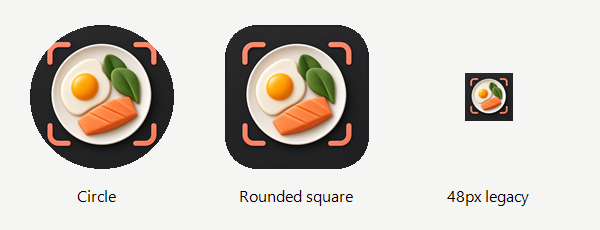
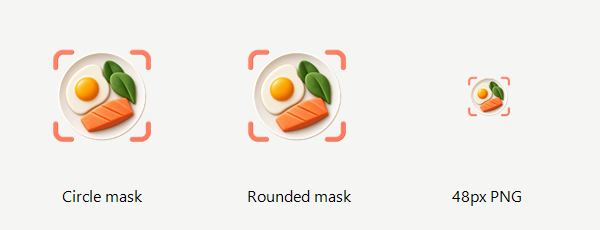
fix: 修复图标透明背景并更新安装包版本

diff --git a/app/lib/settings/settings_page.dart b/app/lib/settings/settings_page.dart
@@ -109,7 +109,7 @@ class SettingsPage extends StatelessWidget {
                                               builder: (_) => DataPage(s))))),
                               const SizedBox(height: 24),
                               const Text(
-                                  'AI 减脂伙伴 · 0.1.16\n本地保存，无账号、广告或分析上传。\nAI 估算用于个人记录，不替代专业营养或医疗建议。',
+                                  'AI 减脂伙伴 · 0.1.17\n本地保存，无账号、广告或分析上传。\nAI 估算用于个人记录，不替代专业营养或医疗建议。',
                                   style: TextStyle(fontSize: 14),
                                   textAlign: TextAlign.center),
                             ])))),

diff --git a/docs/assets/app-icon-graphite-coral-v1.md b/docs/assets/app-icon-graphite-coral-v1.md
@@ -1,15 +1,15 @@
-# App 图标设计稿 v1
+# App 图标（透明底）
 
-- 文件：[app-icon-graphite-coral-v1.png](app-icon-graphite-coral-v1.png)
-- 方向：已确认的 B，白瓷餐盘 + 珊瑚橘相机取景框，石墨色背景，简化的煎蛋、绿叶与三文鱼。
-- 生成方式：内置 `image_gen`，初版生成后进行一次风格简化编辑。
-- 状态：用户已选定简化版，已接入 Android 启动图标资源，包含在当前0.1.16 APK中并已保留数据安装到MuMu；构建和设备范围见[实现状态](../10-implementation-status.md)。
+- 文件：[app-icon-transparent-v2.png](app-icon-transparent-v2.png)，带 Alpha 通道的 PNG。
+- 方向：已确认的 B，白瓷餐盘 + 珊瑚橘相机取景框，简化的煎蛋、绿叶与三文鱼；盘外和取景框间隙透明。
+- 生成方式：内置 `image_gen`，对已选定的简化图案移除背景。
+- 状态：已接入 Android 启动图标资源并构建 0.1.17 APK，未自动安装，手机实际显示由用户安装后验收；构建和设备范围见[实现状态](../10-implementation-status.md)。
 
 ## Android 资源
 
 保留 Manifest 的 `@drawable/journal_icon` 入口。Android 7 使用对应密度的 `mipmap-*/ic_launcher.png`，尺寸为 48 / 72 / 96 / 144 / 192px；Android 8 及以上由 `drawable-anydpi-v26/journal_icon.xml` 使用自适应图标。
 
-自适应图层使用 432px（xxxhdpi 下为 108dp）画布，原稿居中导出为 280px（70dp），四角取景框和餐盘位于内部，外围延续石墨背景，为系统裁切留出空间。实现依据见 [Android 自适应图标规范](https://developer.android.com/develop/ui/compose/system/icon_design_adaptive)。没有另行生成或改变已确认的图案。
+自适应图层使用透明的 432px（xxxhdpi 下为 108dp）画布，原稿居中导出为 224px（56dp），为四角取景框预留裁切空间；背景层同样透明，不添加黑色底板。实现依据见 [Android 自适应图标规范](https://developer.android.com/develop/ui/compose/system/icon_design_adaptive)。
 
 在项目根目录通过 Windows PowerShell 重新导出这些 PNG：
 
@@ -24,9 +24,7 @@
 ## 最终编辑提示词
 
 ```text
-Edit the supplied icon. Change its rendering language from realistic food photography to a beautifully simplified sculptural Apple-style app icon. Preserve the approved concept, centered top-down composition, white circular plate, graphite edge-to-edge background, four coral camera viewfinder corners, and the three food categories. Keep all elements centered and crop-safe.
+Edit this exact approved app icon by removing ONLY its graphite / charcoal background. Produce a genuine RGBA PNG with a fully transparent background, including the entire outside canvas, the gaps between the plate and the four coral viewfinder brackets, and the space inside the four separated brackets outside the plate. Do not put the icon on a black, white, gray, colored, or checkerboard background. The background must be actual alpha transparency, not a painted checkerboard.
 
-The essential change is strong visual simplification and restrained shallow 3D: smooth, deliberately designed geometric silhouettes with almost no surface texture. This must look like a premium designed app symbol, NOT a food photograph. The egg becomes one smooth, broad ivory-white silhouette with a single golden dome yolk: no fried bubbles, brown crispy edges, oil, or pepper. Replace the realistic spinach bunch with exactly TWO broad, simple muted-green leaf shapes, just one gentle center fold on each: no stems, fine veins, speckles, or photographic detail. The salmon becomes one softly rounded coral-orange wedge with only two broad shallow diagonal grooves: no fish-muscle striations, grilled crust, seasoning, or wet shine. Keep the plate a clean shallow porcelain disc with a subtle rim, not a deep bowl. Use soft satin material, delicate controlled edge highlights and short subtle shadows. Crisp refined geometry, no outlines around food, no plastic toy gloss. Keep dimensionality understated and recognizable at 48px.
-
-Keep the background neutral graphite, the four rounded viewfinder brackets soft coral, and the plate ivory. Calm, sophisticated, clean, friendly, modern health-app identity. Full square opaque icon artwork; no rounded outer tile baked in, no extra props, no text or symbols, no phone, no sparkles, no mockup or border canvas.
+Preserve the original icon artwork faithfully: the white porcelain plate, the simplified smooth fried egg and golden yolk, exactly two green leaves, the simplified coral-orange salmon wedge, and the four separate rounded coral camera-viewfinder corner brackets. Keep their original positions, scale, colors, materials, shape, top-down perspective, and understated dimensional highlights. Do not redesign or add anything. Keep plate interior shading and the food contact shadows, but remove the charcoal backdrop and any broad black drop shadow or dark halo outside the plate or brackets. Edges must be clean and antialiased, with no black fringe when placed on a white or light background. Preserve the original square composition and crop-safe spacing. No text, no added outline, no phone, no new objects. This is background extraction, not a new illustration.
 ```

diff --git a/docs/11-theme-design.md b/docs/11-theme-design.md
@@ -1,6 +1,6 @@
 # 11 主题视觉规范
 
-**状态：主题设计要求已整理，待实施；已确认的简化版 App 图标已接入 Android 资源。** 图标已包含在当前0.1.16 APK中并安装到MuMu，见[实现状态](10-implementation-status.md)；本规范的主题改造尚未实施，对应分析、测试、构建和设备检查按后续范围执行。
+**状态：主题设计要求已整理，待实施；已确认的简化版 App 图标以透明底 PNG 接入 Android 资源。** 当前构建与安装范围见[实现状态](10-implementation-status.md)；本规范的主题改造尚未实施，对应分析、测试、构建和设备检查按后续范围执行。
 
 ## 1. 目标和范围
 
@@ -226,6 +226,6 @@ flutter build apk --debug --no-pub
 
 已确认采用 **B：餐盘 + 相机取景框**，不画完整手机。中央白瓷餐盘放简化食物，取景框表达拍照记录；风格干净、精致、轻微立体，高光和阴影克制，缩小后仍能辨认，不加文字、手或桌面等装饰。
 
-图标采用本规范的石墨色与柔和珊瑚橘方向，食物保留自然色，不要求所有食物使用品牌色。设计稿见 [app-icon-graphite-coral-v1.png](assets/app-icon-graphite-coral-v1.png)，生成方式和最终编辑提示词见 [图标设计稿记录](assets/app-icon-graphite-coral-v1.md)。已将写实食物细节简化为清晰的立体形状，便于小尺寸识别。
+图标使用柔和珊瑚橘取景框，食物保留自然色，餐盘和取景框之外为真实透明通道，不添加石墨色底板或黑边。原稿见 [app-icon-transparent-v2.png](assets/app-icon-transparent-v2.png)，生成方式和最终编辑提示词见 [图标记录](assets/app-icon-graphite-coral-v1.md)。食物保持清晰、简化的立体形状，便于小尺寸识别。
 
 已替换 Android 启动图标资源，保留 `@drawable/journal_icon` 入口，提供五种密度的旧版图标及 Android 8 起的自适应图标。导出方式见图标记录；未更换页面内的 Material 图标，也未改变主题或业务逻辑。主题在实际界面中校准配色时，图标背景与取景框可同步微调。

diff --git a/app/README.md b/app/README.md
@@ -46,7 +46,7 @@ flutter build apk --debug --no-pub
 
 本机 Flutter 路径为 D:\FlutterSDK，JDK 为 D:\Java\hold-that-bite-jdk17，Android SDK 为 D:\AndroidSDK。其他环境应配置自己的 Flutter / Java / Android SDK 路径，不复制 local.properties。
 
-产物：build/app/outputs/flutter-apk/app-debug.apk。应用 ID 为 local.foodjournal.app，版本 0.1.16+17。debug 包供个人设备验收；正式发布需要配置独立发布签名，不使用调试签名冒充正式包。
+产物：build/app/outputs/flutter-apk/app-debug.apk。应用 ID 为 local.foodjournal.app，版本 0.1.17+18。debug 包供个人设备验收；正式发布需要配置独立发布签名，不使用调试签名冒充正式包。
 
 ## 重点测试
 
